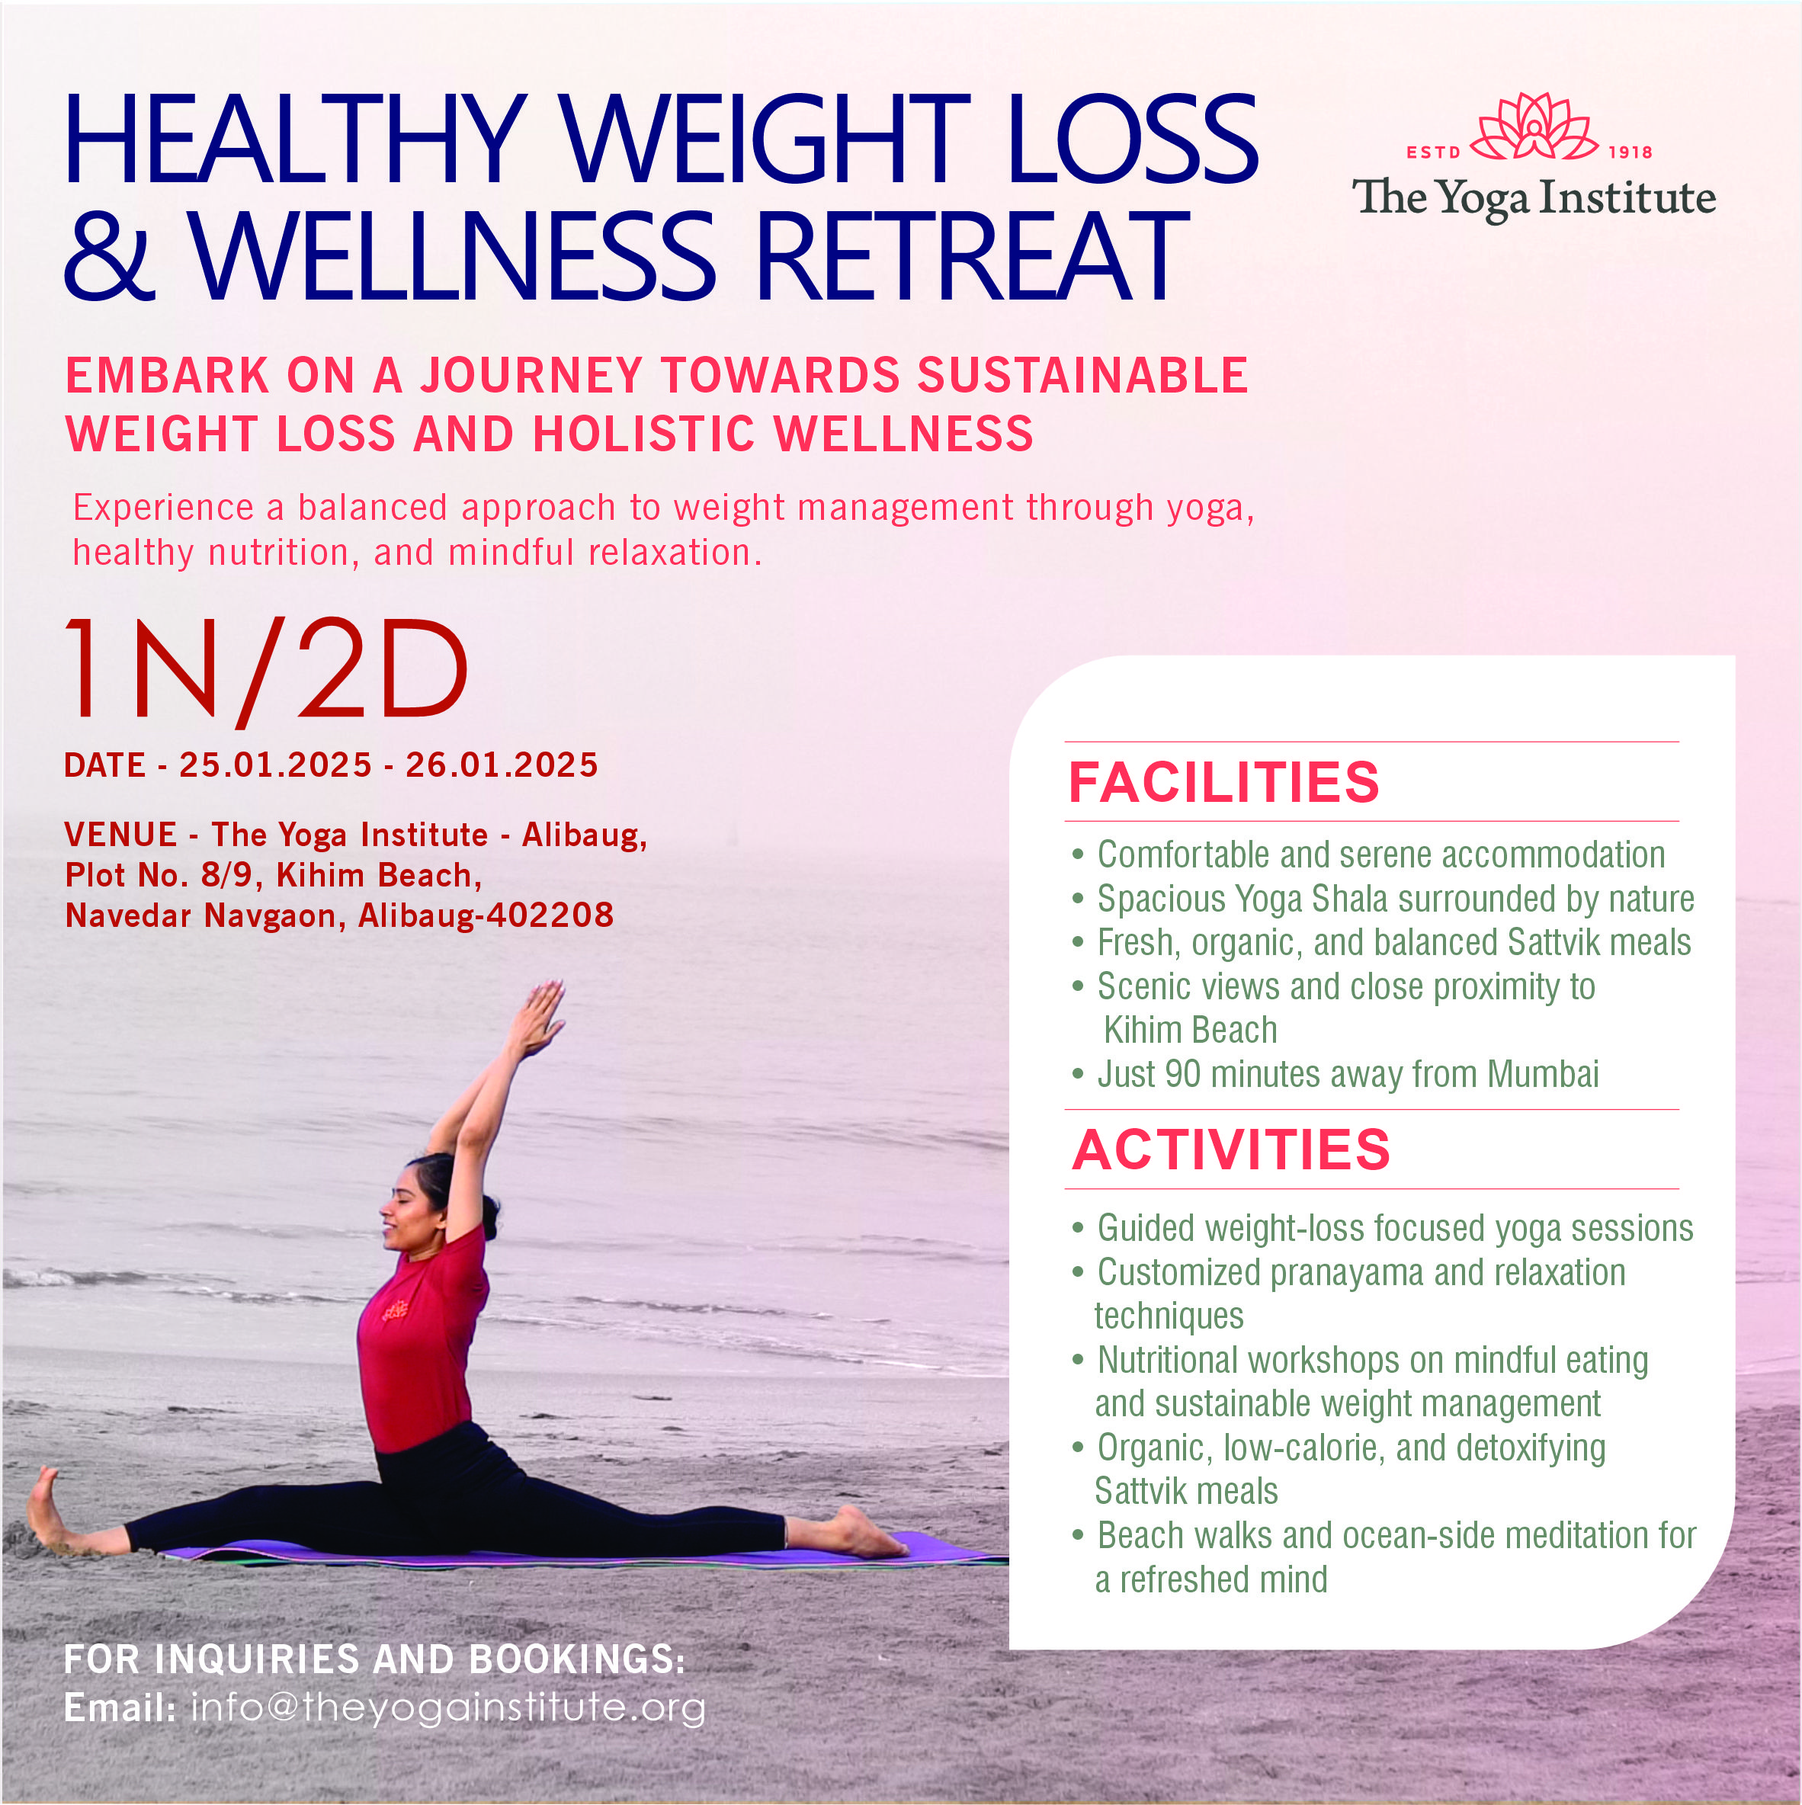
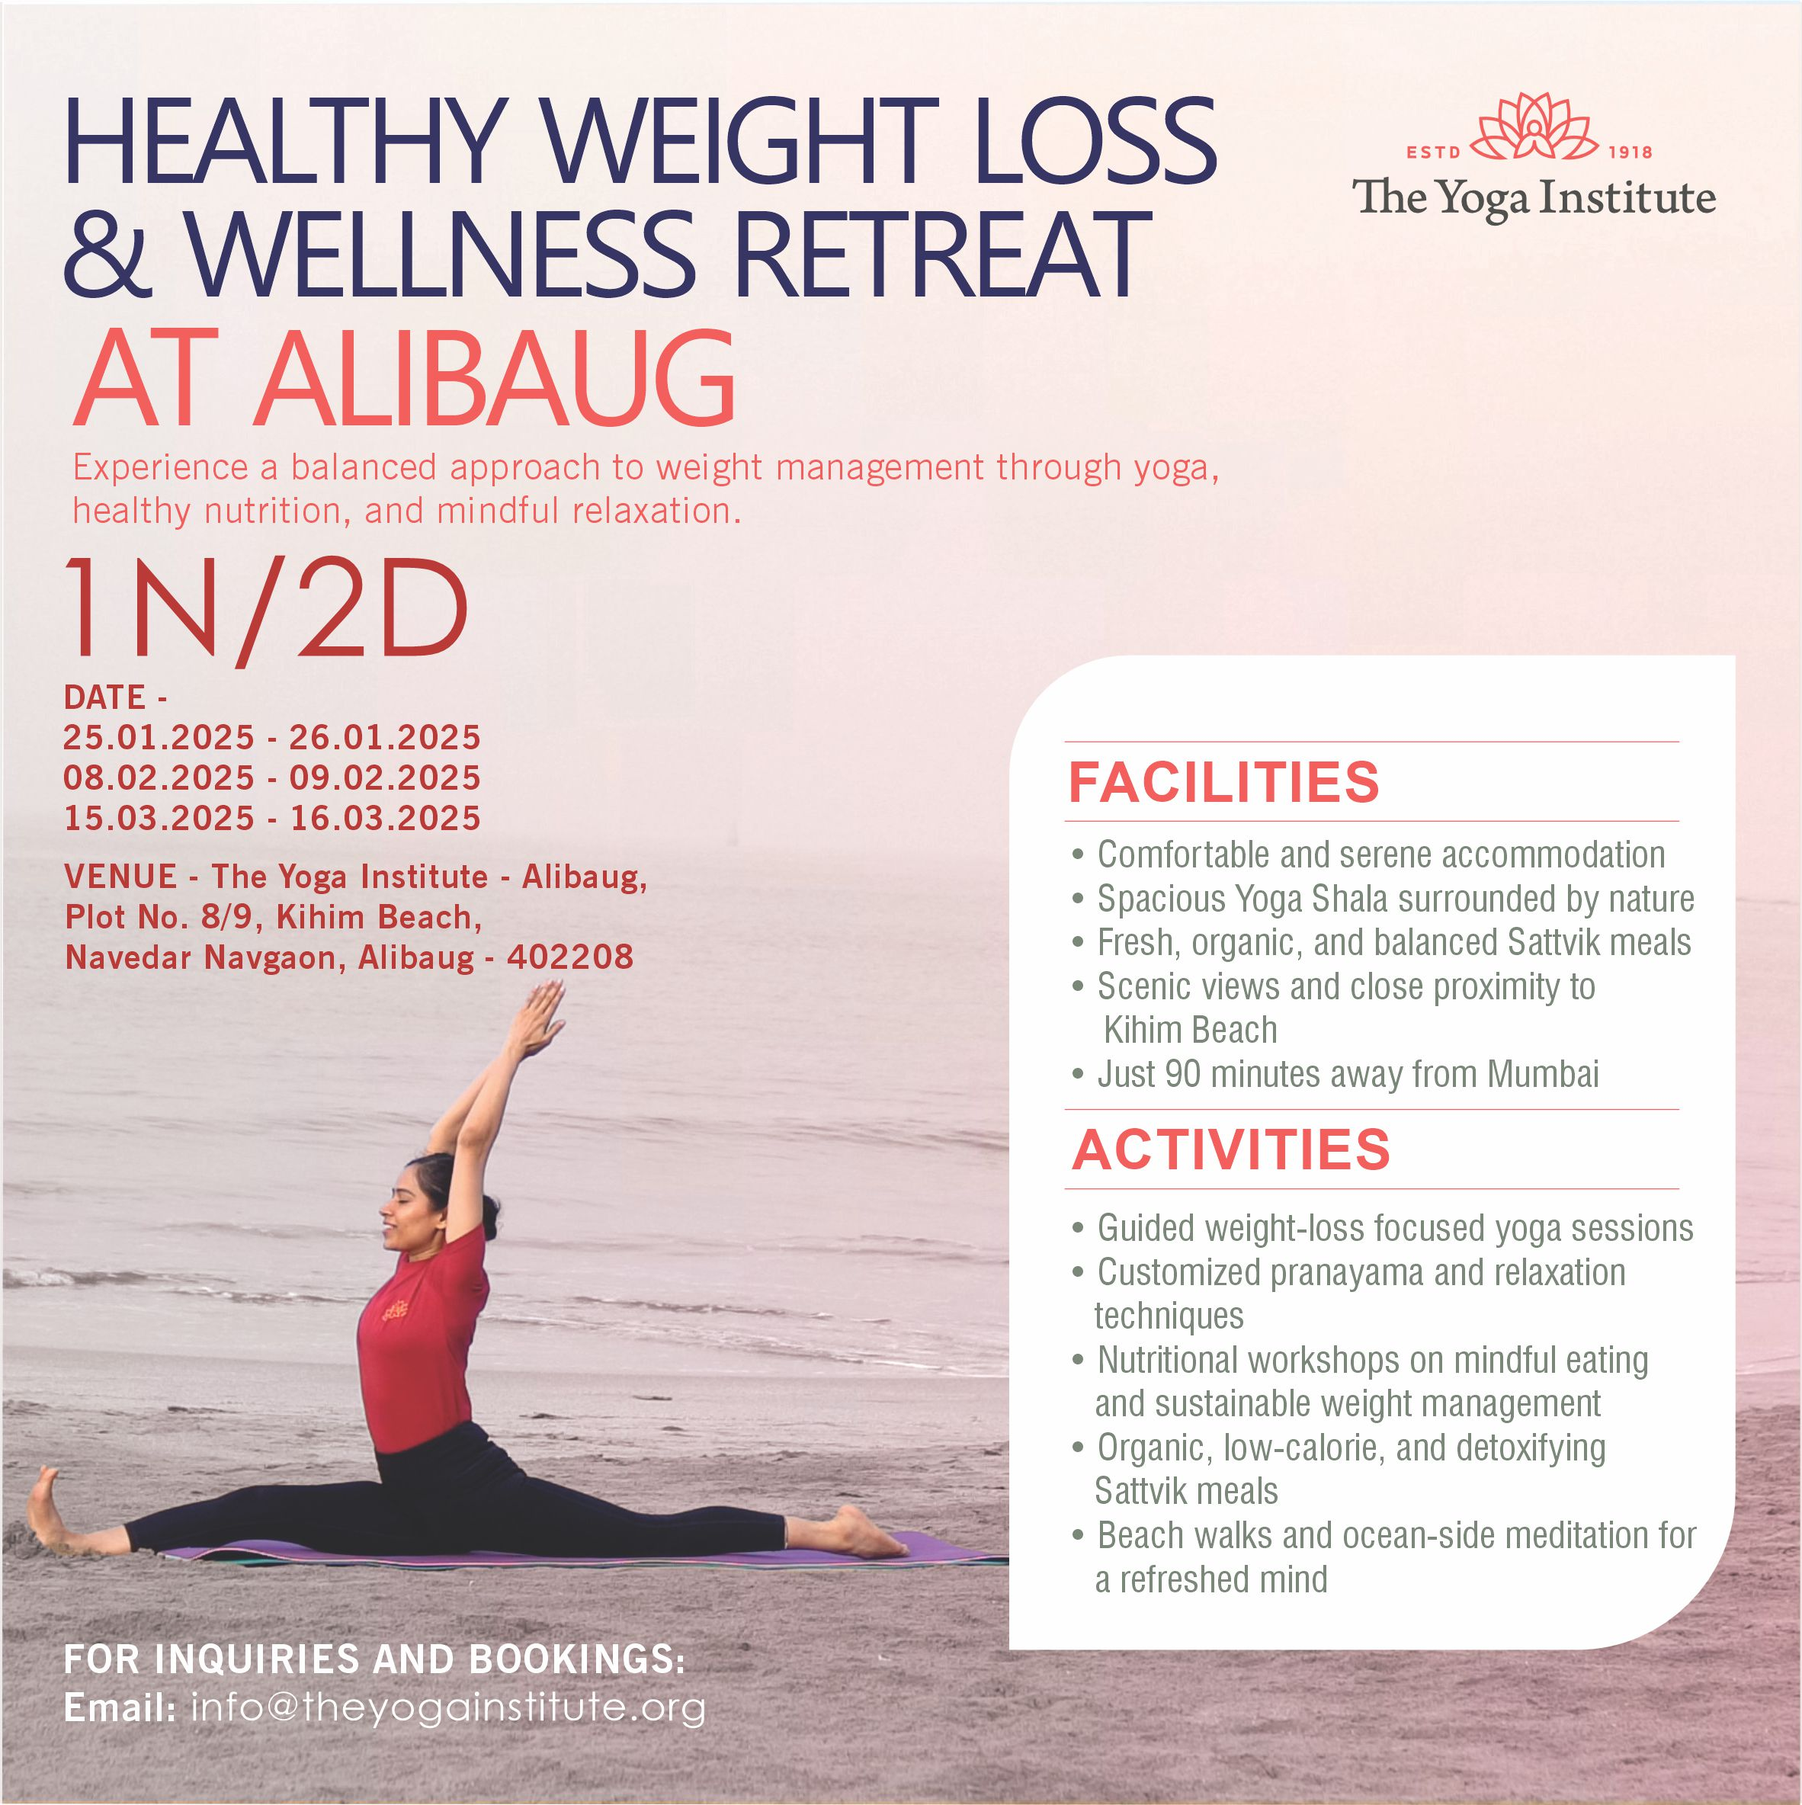
Alibaug date updates

diff --git a/src/Views/StaticSite/Views/Courses/Constants/courses.js b/src/Views/StaticSite/Views/Courses/Constants/courses.js
@@ -17465,130 +17465,130 @@ const certificate = {
   },
 }
 const alibaug = {
-  1: {
-    id: '',
-    textdescription6: '',
-    textdescription7: '',
-    textdescription8: '',
-    textdescription9: '',
-    textdescription10: '',
-    textdescription1: '',
-    textdescription2: '',
-    textdescription3: '',
-    textdescription4: '',
-    textdescription5: '',
-    title: 'Detox and Cleanse Yoga Retreat',
-    key: 'detox-cleanse-yoga-retreat',
-    isRegular: true,
-    tenure: '2 day',
-    weekends: false,
-    batch: 1,
-    // templateId: 'GENERAL_AUTO_EMAIL',
-    templateId: {
-      templateOnline: '',
-      templateOffline: {
-        templateResidential: '',
-        templateNonResidential: '',
-      },
-    },
-    image: `/images/DetoxCleanse.jpg`,
-    cardImage: `/images/DetoxCleanse.jpg`,
-    mostPopular: false,
-    metaDescription:
-      'Towards the end, there is an enlightening question and answer session. ',
-    rating: 5,
-    colorCode: '#B77E7E',
-    timing: '1 Night, 2 Days',
-    fees: {
-      onlineFee: 10000,
-      offlineFee: { residentialFee: 0, nonResidentialFee: 0 },
-    },
-    category: 'classes',
-    dates: ['4th Jan 2025 to 5th Jan 2025'
-    ],
-    online: false,
-    onCampus: false,
-    nonResidential: false,
-    residential: false,
-    certficate: false,
-    newName: '',
-    enrollInfo: {
-      duration: "1 Night, 2 Days",
-      timings: [
-        {
-          day: "",
-          time: "8:00 AM (4th) to 7:00 PM (5th)"
-        }
-      ]
-    },
-    details: [
-      {
-        type: 'paragraph',
-        content: {
-          title: '',
-          text: [
-            'The Yoga Institute’s Founder, Shri Yogendraji introduced Satsang with an objective for people to come together and find solutions for their worldly problems. It takes place on Sundays and is open to all so that everyone can benefit from the 1-hour session.',
-          ],
-        },
-      },
-      {
-        type: 'paragraph',
-        content: {
-          title: '',
-          text: [
-            'The highlighted aspect of Satsang is a discourse by the Spiritual Guru and Director of TYI, Dr. Hansaji whoshares her enlightening wisdom on various topics including health &amp; wellness, relationships, career, food,parenting, family and so on. Through her compassionate and personalized approach, Dr. Hansaji has helped countless individuals overcome their challenges and find greater health and well-being.'],
-        },
-      },
-      {
-        type: 'paragraph',
-        content: {
-          title: '',
-          text: [
-            'You can get your queries resolved by Dr. Hansaji as she is dedicated to helping you find the support and guidance you need to thrive. She helps people solve their problems by focusing on the root cause of their issues, rather than simply addressing symptoms. She understands that many physical and emotional problems are interconnected and that by addressing the underlying causes, individuals can experience long-term relief.',
-          ],
-        },
-      },
-      {
-        type: 'paragraph',
-        content: {
-          title: '',
-          text: [
-            'Yoga is a powerful tool for managing physical, mental and emotional challenges and helping individuals find greater peace and balance in their lives. Satsang helps bring positivity and awareness into our lives. Dr. Hansaji shares profound wisdom of the ancient scriptures and a Yogic way of living which enhances the lives of all the satsangis and is relevant in the present time and age.',
-          ],
-        },
-      },
-      {
-        type: 'paragraph',
-        content: {
-          title: '',
-          text: [
-            'Towards the end, there is an enlightening question and answer session.',
-          ],
-        },
-      },
-      {
-        type: 'paragraph',
-        content: {
-          title: 'About the programme',
-          text: [' Every Sunday between 9.30 am and 10.30am'],
-        },
-      },
-      {
-        type: 'paragraph',
-        content: {
-          title: 'Prerequisites',
-          text: ['The programme is open to all. No age bar.'],
-        },
-      },
-      {
-        type: 'paragraph',
-        content: {
-          title: 'Registration',
-          text: [' free entry - on the spot registration.'],
-        },
-      },
-    ],
-  },
+  // 1: {
+  //   id: '',
+  //   textdescription6: '',
+  //   textdescription7: '',
+  //   textdescription8: '',
+  //   textdescription9: '',
+  //   textdescription10: '',
+  //   textdescription1: '',
+  //   textdescription2: '',
+  //   textdescription3: '',
+  //   textdescription4: '',
+  //   textdescription5: '',
+  //   title: 'Detox and Cleanse Yoga Retreat',
+  //   key: 'detox-cleanse-yoga-retreat',
+  //   isRegular: true,
+  //   tenure: '2 day',
+  //   weekends: false,
+  //   batch: 1,
+  //   // templateId: 'GENERAL_AUTO_EMAIL',
+  //   templateId: {
+  //     templateOnline: '',
+  //     templateOffline: {
+  //       templateResidential: '',
+  //       templateNonResidential: '',
+  //     },
+  //   },
+  //   image: `/images/DetoxCleanse.jpg`,
+  //   cardImage: `/images/DetoxCleanse.jpg`,
+  //   mostPopular: false,
+  //   metaDescription:
+  //     'Towards the end, there is an enlightening question and answer session. ',
+  //   rating: 5,
+  //   colorCode: '#B77E7E',
+  //   timing: '1 Night, 2 Days',
+  //   fees: {
+  //     onlineFee: 10000,
+  //     offlineFee: { residentialFee: 0, nonResidentialFee: 0 },
+  //   },
+  //   category: 'classes',
+  //   dates: ['4th Jan 2025 to 5th Jan 2025'
+  //   ],
+  //   online: false,
+  //   onCampus: false,
+  //   nonResidential: false,
+  //   residential: false,
+  //   certficate: false,
+  //   newName: '',
+  //   enrollInfo: {
+  //     duration: "1 Night, 2 Days",
+  //     timings: [
+  //       {
+  //         day: "",
+  //         time: "8:00 AM (4th) to 7:00 PM (5th)"
+  //       }
+  //     ]
+  //   },
+  //   details: [
+  //     {
+  //       type: 'paragraph',
+  //       content: {
+  //         title: '',
+  //         text: [
+  //           'The Yoga Institute’s Founder, Shri Yogendraji introduced Satsang with an objective for people to come together and find solutions for their worldly problems. It takes place on Sundays and is open to all so that everyone can benefit from the 1-hour session.',
+  //         ],
+  //       },
+  //     },
+  //     {
+  //       type: 'paragraph',
+  //       content: {
+  //         title: '',
+  //         text: [
+  //           'The highlighted aspect of Satsang is a discourse by the Spiritual Guru and Director of TYI, Dr. Hansaji whoshares her enlightening wisdom on various topics including health &amp; wellness, relationships, career, food,parenting, family and so on. Through her compassionate and personalized approach, Dr. Hansaji has helped countless individuals overcome their challenges and find greater health and well-being.'],
+  //       },
+  //     },
+  //     {
+  //       type: 'paragraph',
+  //       content: {
+  //         title: '',
+  //         text: [
+  //           'You can get your queries resolved by Dr. Hansaji as she is dedicated to helping you find the support and guidance you need to thrive. She helps people solve their problems by focusing on the root cause of their issues, rather than simply addressing symptoms. She understands that many physical and emotional problems are interconnected and that by addressing the underlying causes, individuals can experience long-term relief.',
+  //         ],
+  //       },
+  //     },
+  //     {
+  //       type: 'paragraph',
+  //       content: {
+  //         title: '',
+  //         text: [
+  //           'Yoga is a powerful tool for managing physical, mental and emotional challenges and helping individuals find greater peace and balance in their lives. Satsang helps bring positivity and awareness into our lives. Dr. Hansaji shares profound wisdom of the ancient scriptures and a Yogic way of living which enhances the lives of all the satsangis and is relevant in the present time and age.',
+  //         ],
+  //       },
+  //     },
+  //     {
+  //       type: 'paragraph',
+  //       content: {
+  //         title: '',
+  //         text: [
+  //           'Towards the end, there is an enlightening question and answer session.',
+  //         ],
+  //       },
+  //     },
+  //     {
+  //       type: 'paragraph',
+  //       content: {
+  //         title: 'About the programme',
+  //         text: [' Every Sunday between 9.30 am and 10.30am'],
+  //       },
+  //     },
+  //     {
+  //       type: 'paragraph',
+  //       content: {
+  //         title: 'Prerequisites',
+  //         text: ['The programme is open to all. No age bar.'],
+  //       },
+  //     },
+  //     {
+  //       type: 'paragraph',
+  //       content: {
+  //         title: 'Registration',
+  //         text: [' free entry - on the spot registration.'],
+  //       },
+  //     },
+  //   ],
+  // },
   2: {
     id: '',
     textdescription6: '',
@@ -17628,7 +17628,7 @@ const alibaug = {
       offlineFee: { residentialFee: 0, nonResidentialFee: 0 },
     },
     category: 'classes',
-    dates: ['11th Jan 2025 to 12th Jan 2025'
+    dates: ['1st Mar 2025 to 2nd Mar 2025'
     ],
     online: false,
     onCampus: false,
@@ -17752,7 +17752,7 @@ const alibaug = {
       offlineFee: { residentialFee: 0, nonResidentialFee: 0 },
     },
     category: 'classes',
-    dates: [' 18th Jan 2025 to 19th Jan 2025'
+    dates: ['1st Feb 2025 to 2nd Feb 2025','8th Mar 2025 to 9th Mar 2025','22nd Mar 2025 to 23rd Mar 2025'
     ],
     online: false,
     onCampus: false,
@@ -17875,7 +17875,7 @@ const alibaug = {
       offlineFee: { residentialFee: 0, nonResidentialFee: 0 },
     },
     category: 'classes',
-    dates: [' 25th Jan 2025 to 26th Jan 2025'
+    dates: ['25th Jan 2025 to 26th Jan 2025','8th Feb 2025 to 9th Feb 2025','15th Feb 2025 to 16th Feb 2025'
     ],
     online: false,
     onCampus: false,

diff --git a/src/Views/StaticSite/Components/LocateUs/AlibaugCarousel.js b/src/Views/StaticSite/Components/LocateUs/AlibaugCarousel.js
@@ -94,7 +94,7 @@ const AlibaugCarousel = () => {
         </Slider>
         <h2 style={{ marginTop: '32px' }}>Our Rejuvenating Retreats</h2>
       </div>
-      <div className="alibaug-container" style={{ marginTop: '38px' }}>
+      {/* <div className="alibaug-container" style={{ marginTop: '38px' }}>
         <div className="alibaug-column alibaug-column-1">
           <img src="images/DetoxCleanse.jpg" />
         </div>
@@ -124,7 +124,7 @@ const AlibaugCarousel = () => {
           >
             <EnrollBtn text={'Book Now'} buttonAction={() => { addToCart('Detox and Cleanse Yoga Retreat', '/detox-cleanse-yoga-retreat', '8:00 AM (14th) to 7:00 PM (15th)') }} /></Link>
         </div>
-      </div>
+      </div> */}
 
       <div className="alibaug-container img-rev">
         <div className="alibaug-column alibaug-column-2">
@@ -135,7 +135,7 @@ const AlibaugCarousel = () => {
           </p>
           <div className="apply-address">
             <h5>Book Your Retreat Now</h5>
-            <h5>Date: <span style={{ fontWeight: '400' }}>11th January 2025 to 12th January 2025 (1 Night, 2 Days)</span>
+            <h5>Date: <span style={{ fontWeight: '400' }}>1st March 2025 to 2nd March 2025 (1 Night, 2 Days)</span>
             </h5>
             {/* {window.innerWidth <= 768 ? <h5>Dates: <br /> <span style={{ fontWeight: '400' }}> Retreat 1 - 21st December 2024 to 22nd December 2024 (1 Night, 2 Days)</span><br />
               <span style={{ fontWeight: '400', position: 'relative', top: '10px' }}> Retreat 2 - 11th January 2025 to 12th January 2025 (1 Night, 2 Days)</span>
@@ -175,9 +175,13 @@ const AlibaugCarousel = () => {
           </p>
           <div className="apply-address">
             <h5>Book Your Retreat Now</h5>
-            {window.innerWidth <= 768 ?
-              <h5>Date: <br /><span style={{ fontWeight: '400' }}> 18th January 2025 to 19th January 2025 (1 Night, 2 Days)</span>
-              </h5> : <h5>Date: <span style={{ fontWeight: '400' }}> 18th January 2025 to 19th January 2025 (1 Night, 2 Days)</span>
+            {window.innerWidth <= 768 ? <h5>Dates: <br /> <span style={{ fontWeight: '400' }}> Retreat 1 - 1st February 2025 to 2nd February 2025 (1 Night, 2 Days)</span><br />
+              <span style={{ fontWeight: '400', position: 'relative', top: '10px' }}> Retreat 2 - 8th March 2025 to 9th March 2025 (1 Night, 2 Days)</span><br />
+              <span style={{ fontWeight: '400', position: 'relative', top: '10px' }}> Retreat 3 - 22nd March 2025 to 23rd March 2025 (1 Night, 2 Days)</span>
+            </h5> :
+              <h5>Dates: <span style={{ fontWeight: '400' }}> Retreat 1 - 1st February 2025 to 2nd February 2025 (1 Night, 2 Days)</span><br />
+                <span style={{ fontWeight: '400', marginLeft: '59.9px', lineHeight: '30px' }}> Retreat 2 - 8th March 2025 to 9th March 2025 (1 Night, 2 Days)</span><br />
+                <span style={{ fontWeight: '400', marginLeft: '59.9px', lineHeight: '30px' }}> Retreat 3 - 22nd March 2025 to 23rd March 2025 (1 Night, 2 Days)</span>
               </h5>}
             <h5>
               Cost: <span style={{ fontWeight: '400' }}>Rs. 10,000/- (Per Person – Inclusive of 8 Meals)</span>
@@ -205,8 +209,14 @@ const AlibaugCarousel = () => {
           </p>
           <div className="apply-address">
             <h5>Book Your Retreat Now</h5>
-            <h5>Date: <span style={{ fontWeight: '400' }}>25th January 2025 to 26th January 2025 (1 Night, 2 Days)</span>
-            </h5>
+            {window.innerWidth <= 768 ? <h5>Dates: <br /> <span style={{ fontWeight: '400' }}> Retreat 1 - 25th January 2025 to 26th January 2025 (1 Night, 2 Days)</span><br />
+              <span style={{ fontWeight: '400', position: 'relative', top: '10px' }}> Retreat 2 - 8th February 2025 to 9th February 2025 (1 Night, 2 Days)</span><br />
+              <span style={{ fontWeight: '400', position: 'relative', top: '10px' }}> Retreat 3 - 15th March 2025 to 16th March 2025 (1 Night, 2 Days)</span>
+            </h5> :
+              <h5>Dates: <span style={{ fontWeight: '400' }}> Retreat 1 - 25th January 2025 to 26th January 2025 (1 Night, 2 Days)</span><br />
+              <span style={{ fontWeight: '400', marginLeft: '59.9px', lineHeight: '30px' }}> Retreat 2 - 8th February 2025 to 9th February 2025 (1 Night, 2 Days)</span><br />
+                <span style={{ fontWeight: '400', marginLeft: '59.9px', lineHeight: '30px' }}> Retreat 3 - 15th March 2025 to 16th March 2025 (1 Night, 2 Days)</span>
+              </h5>}
             <h5>
               Cost: <span style={{ fontWeight: '400' }}>Rs. 10,000/- (Per Person – Inclusive of 8 Meals)</span>
             </h5>
